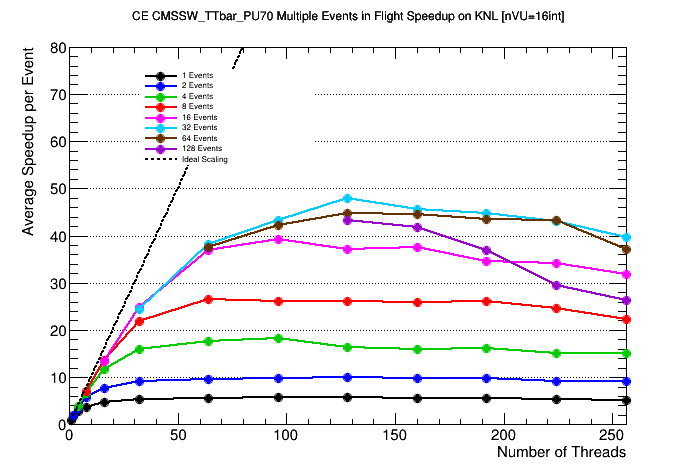
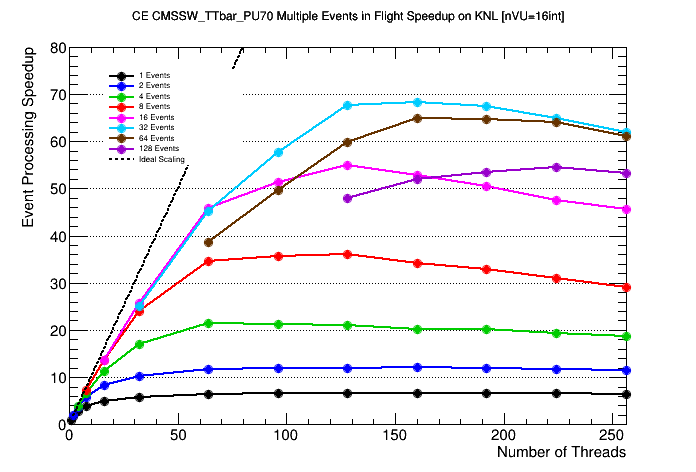
Modify text to reflect results from 20*N_thr benchmarking.

diff --git a/paper/pkf-chep2018-tadel.tex b/paper/pkf-chep2018-tadel.tex
@@ -452,11 +452,10 @@ be performed outside of \mkfit itself.
 
 First, we show the speedup as a function of the Matriplex width which
 effectively controls how many slots in the vector registers are used. The
-results are shown in figure \ref{fig:vu-speedup}. For SKL-SP the highest
-speedup obtained with AVX-512 vectorization (SIMD width of 16 floats) is 2.8.
-On KNL with AVX-512, including auto-generated intrinsics code for Matriplex
-operations, we observe a maximum speedup of 3.2. Assuming that effective
-vectorization speedup is 3, speedup of vectorized code is 16, and using
+results are shown in figure \ref{fig:vu-speedup}. On both platforms the highest
+speedup is obtained with AVX-512 vectorization (SIMD width of 16 floats) and
+is 2.9 for SKL-SP and 3.3 for KNL. Taking the effective
+vectorization speedup of 3, assuming that speedup of vectorized code is 16, and using
 Amdahl's Law in reverse, we can conclude that at least 72\% of our code's
 execution time operates with vector instructions.
 
@@ -480,9 +479,8 @@ event. Beyond 32 threads the standard work chunk of 32 seeds per task gets
 progressively reduced down to 4 seeds per task at 256 threads.
 SKL-SP shows good scaling up to 8 threads and KNL up to 32 threads.
 For KNL the effect of reduction of the standard work chunk can be observed
-in continuation of scaling toward higher number of threads where, ultimately, at
-about 164 threads there simply isn't enough seeds per event to fill up all
-the processing slots.
+in continuation of scaling toward higher number of threads, up to 
+about 164 threads.
 
 \begin{figure}[htb]
   \centering
@@ -513,10 +511,10 @@ Scaling behavior for multiple events in flight is shown in figure
 pre-processing of hits and seeds have not yet been fully optimized for
 multithreaded operation or to use vectorization. One can see the effect of
 those by comparing results for one event in flight with corresponding result in
-the previous section, figure \ref{fig:th-speedup}. SKL-SP shows good scaling with 16
+the previous section, figure \ref{fig:th-speedup}. SKL-SP shows best scaling with 16
 events in flight; hyperthreading provides additional 30\% speedup when going from 32 to 64
-total threads. For KNL, having 16 events in flight offers the best performance up to
-64 threads; above that, 32 events in flight are required, but having more than
+total threads. For KNL, having 32 events in flight offers the best performance; up to
+64 threads the performance is also achieved by 16 events inflight. Having more than
 32 events in flight is not helpful, possibly due to the fact that in KNL a given
 memory reference can only be ``owned'' by 1 of 32 tiles in the layout of cores.
 KNL shows no gain in using more than 128 threads, i.e., hyperthreading does not
